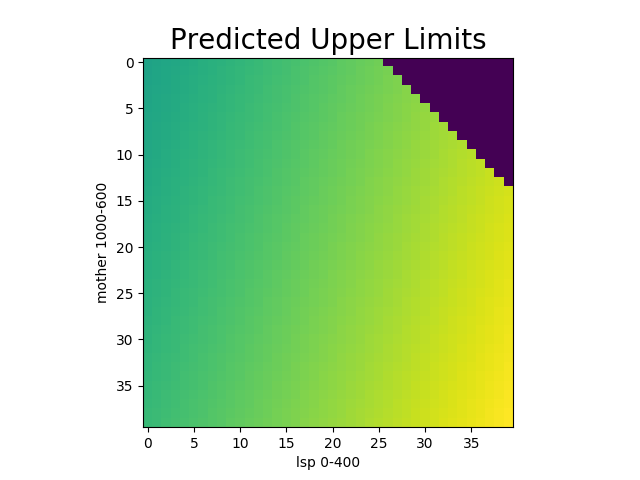
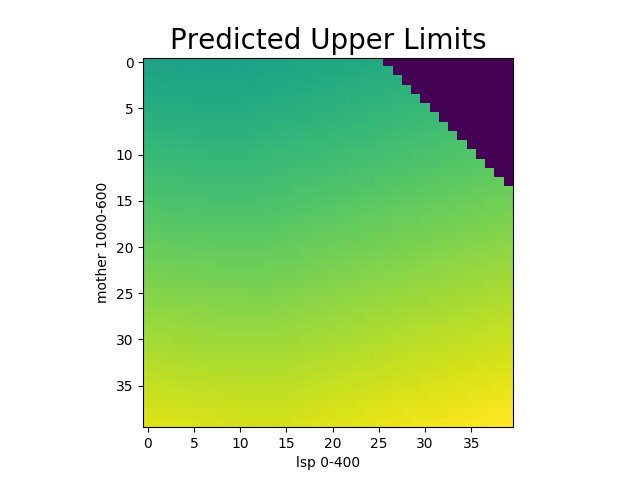
everything

Changed region(s): [[0.2188, 0.3438, 0.7188, 0.9062], [0.375, 0.125, 0.8125, 0.7812]]

diff --git a/traintorch.py b/traintorch.py
@@ -6,99 +6,95 @@
 
 import torch
 import numpy as np
+from misc import *
+from glovar import *
+
+import torch.nn as nn
+import torch.nn.functional as F
+
+import visdom
+import matplotlib.pyplot as plt
 
 ###################### DEFINE CLASS ##############################
 
-class TwoLayerNet(torch.nn.Module):
-    def __init__(self, D_in, H, D_out):
-        """
-        In the constructor we instantiate two nn.Linear modules and assign them as
-        member variables.
-        """
-        super(TwoLayerNet, self).__init__()
-        self.linear1 = torch.nn.Linear(D_in, H)
-        self.linear2 = torch.nn.Linear(H, D_out)
+class Net(nn.Module):
+    def __init__(self):
+        super(Net, self).__init__()
+        #super().__init__()
+        self.hidden1 = nn.Sequential(nn.Linear(DIM_IN, DIM_HIDDEN_1), nn.ReLU())
+        self.hidden2 = nn.Sequential(nn.Linear(DIM_HIDDEN_1, DIM_HIDDEN_2), nn.ReLU())
+        self.hidden3 = nn.Sequential(nn.Linear(DIM_HIDDEN_2, DIM_HIDDEN_3), nn.ReLU())
+        self.out = nn.Linear(DIM_HIDDEN_3, DIM_OUT)
 
     def forward(self, x):
-        """
-        In the forward function we accept a Tensor of input data and we must return
-        a Tensor of output data. We can use Modules defined in the constructor as
-        well as arbitrary operators on Tensors.
-        """
-        h_relu = self.linear1(x).clamp(min=0)
-        y_pred = self.linear2(h_relu)
-        return y_pred
-
+        x = self.hidden1(x)
+        x = self.hidden2(x)
+        x = self.hidden3(x)
+        x = self.out(x)
+        return x
 
 ######################## LOAD DATA ################################
 
-print ( "Now loading data" )
-import pickle
-f=open("data/data.pcl","rb")
-tr_data=pickle.load ( f )
-tr_labels=pickle.load ( f )
-val_data=pickle.load ( f )
-val_labels=pickle.load ( f )
-f.close()
+tr_data,tr_labels,val_data,val_labels = loadData()
 
-def hash ( A ):          #define a hash dictionary
-    return int(A[0]*10000.+A[1])
-
-X={}
+X={} #create dictionary
 for d,l in zip (tr_data,tr_labels):
-    X[hash(d)]=l
+    X[Hash(d)]=l
 
 ###################### INITIALIZE NN ############################
 
-# N is batch size; D_in is input dimension;
-# H is hidden dimension; D_out is output dimension.
+model = Net()
+print("\n",model)
 
-N, D_in, H, D_out, N_val = len(tr_data), 2, 8, 1, len(val_data)
+loss_fn = nn.L1Loss(size_average=True, reduce=True)
 
-model = TwoLayerNet(D_in, H, D_out)
-
-#model = torch.nn.Sequential(
-#    torch.nn.Linear(D_in, H),
-#    torch.nn.ReLU(),
-#    torch.nn.Linear(H, D_out),
-#)
-#loss_fn = torch.nn.MSELoss(size_average=False)
-
-learning_rate = 1e-4
-criterion = torch.nn.MSELoss(size_average=False)
-optimizer = torch.optim.SGD(model.parameters(), lr=learning_rate)
-#optimizer = torch.optim.Adam(model.parameters(), lr=learning_rate)
+optimizer = torch.optim.Adam(model.parameters(), lr=LEARN_RATE)
 
 ###################### MODIFY DATA FOR NN #########################
 
-tr_data_torch      = torch.zeros(N, D_in)
-tr_labels_torch    = torch.zeros(N, D_out)
-val_data_torch     = torch.zeros(N_val, D_in)
-val_labels_torch   = torch.zeros(N_val,  D_out)
+tr_data_torch    = torch.zeros(BATCH_SIZE, DIM_IN)
+tr_labels_torch  = torch.zeros(BATCH_SIZE, DIM_OUT)
+val_data_torch   = torch.zeros(BATCH_SIZE_VAL, DIM_IN)
+val_labels_torch = torch.zeros(BATCH_SIZE_VAL, DIM_OUT)
 
-for i in range(N):
-	tr_data_torch[i]   = torch.from_numpy(tr_data[i])
-	tr_labels_torch[i] = tr_labels[i]
+for i in range(BATCH_SIZE):
+  tr_data_torch[i]   = torch.from_numpy(tr_data[i])
+  tr_labels_torch[i] = tr_labels[i]
 
-for i in range(N_val):
-	val_data_torch[i]   = torch.from_numpy(val_data[i])
-	val_labels_torch[i] = val_labels[i]
+for i in range(BATCH_SIZE_VAL):
+  val_data_torch[i]   = torch.from_numpy(val_data[i])
+  val_labels_torch[i] = val_labels[i]
 
 ###################### FIT NN #####################################
 
 print ( "Now fitting ... " )
-for t in range(500):
-    labels_pred = model(tr_data_torch)
 
-    loss = criterion(labels_pred, tr_labels_torch)
-    #loss = loss_fn(labels_pred, tr_labels_torch)
-    print(t, loss.item())
+loss_plot_x = [] #save lists for loss plot
+loss_plot_y = []
+
+for t in range(EPOCH_NUM):
+
+    labels_pred = model(tr_data_torch)
+    loss = loss_fn(labels_pred, tr_labels_torch)
+
+    loss_plot_x.append(t) #fill loss lists with data 
+    loss_plot_y.append(loss)
 
     optimizer.zero_grad()
     loss.backward()
     optimizer.step()
-
 print ( "Done fitting" )
+
+print("\nloss:", loss.item())
+
+################# VISUALIZE LOSS ##################################
+
+plt.figure(0)  
+plt.title('Loss Function', fontsize=20)
+plt.xlabel('Epochs')
+plt.ylabel('Value of Loss Function')
+plt.plot(loss_plot_x, loss_plot_y)
+plt.savefig("analysis/plots/loss.png")
 
 ################# MAKE EXAMPLE PREDICTIONS ########################
 mass = torch.tensor( [ [ 600, 200 ], [ 700, 200 ], [ 800, 200 ], [ 900, 200 ], [ 1000, 200 ] ] )
@@ -106,12 +102,9 @@ preds=model( mass.type(torch.FloatTensor) )
 print ( "Now predict" ) 
 
 for m,p in zip ( mass,preds ):
-    print ( "%s -> %s, %s" % ( m,p, X[hash(m)]) )
+    print ( "%s -> %s, %s" % ( m,p, X[Hash(m)]) )
 
 ################ SAVE MODEL ##################################
-#The second saves and loads the entire model:
-#torch.save(the_model, PATH)
-#Then later:
-#the_model = torch.load(PATH)
 
-torch.save(model,"data/torchmodel.h5")
+torch.save(model.state_dict(),"data/torchmodel.h5")
+

diff --git a/drawtorch.py b/drawtorch.py
@@ -5,21 +5,35 @@
 import matplotlib.pyplot as plt
 import numpy as np
 import torch
+from misc import *
+from glovar import *
+
+import torch.nn as nn
+import torch.nn.functional as F
+
+###################### DEFINE CLASS ##############################
+
+class Net(nn.Module):
+    def __init__(self):
+        super(Net, self).__init__()
+        #super().__init__()
+        self.hidden1 = nn.Sequential(nn.Linear(DIM_IN, DIM_HIDDEN_1), nn.ReLU())
+        self.hidden2 = nn.Sequential(nn.Linear(DIM_HIDDEN_1, DIM_HIDDEN_2), nn.ReLU())
+        self.hidden3 = nn.Sequential(nn.Linear(DIM_HIDDEN_2, DIM_HIDDEN_3), nn.ReLU())
+        self.out = nn.Linear(DIM_HIDDEN_3, DIM_OUT)
+
+    def forward(self, x):
+        x = self.hidden1(x)
+        x = self.hidden2(x)
+        x = self.hidden3(x)
+        x = self.out(x)
+        return x
 
 ########## LOAD DATABASE ##############################
 
-print ( "Now loading data" )
-import pickle
-f=open("data/data.pcl","rb")
-tr_data=pickle.load ( f )
-tr_labels=pickle.load ( f )
-val_data=pickle.load ( f )
-val_labels=pickle.load ( f )
-f.close()
+tr_data,tr_labels,val_data,val_labels = loadData()
 
-def Hash ( A ):           #define hash dictionary
-    return int(A[0]*10000.+A[1])
-X={}
+X={} #create dictionary
 for d,l in zip (tr_data,tr_labels):
     X[Hash(d)]=l
 
@@ -38,7 +52,8 @@ pX, pY, pYm = [], [], []
 
 ##### Load the model and make predictions ##############
 
-model = torch.load("data/torchmodel.h5")
+model = Net()
+model.load_state_dict(torch.load("data/torchmodel.h5"))
 preds=model ( mass.type(torch.FloatTensor) )
 
 #### Create a tupel list with mass and predictions #####

diff --git a/obtain_numberstorch.py b/obtain_numberstorch.py
@@ -1,0 +1,34 @@
+
+from glovar import *
+import numpy as np
+import random
+from misc import *
+from smodels.tools.physicsUnits import GeV, fb
+
+expres = getExpRes(EXP)
+
+tr_data, tr_labels   = [], []
+val_data, val_labels = [], []
+
+for mother in np.arange(600., 1100., 5.):
+    for lsp in np.arange (0., mother, 10.):
+
+        masses = [[ mother*GeV, lsp*GeV], [ mother*GeV, lsp*GeV]]
+        ul     = expres.getUpperLimitFor(txname=TX, mass=masses)
+        if type(ul) == type(None):
+            continue
+        tr_data.append(np.array([mother, lsp]))
+        tr_labels.append ( ul.asNumber(fb) )
+
+for i in range(100):
+
+    mother = random.uniform(600. , 1100.)
+    lsp    = random.uniform(0., mother-10.)
+    masses = [[ mother*GeV, lsp*GeV], [ mother*GeV, lsp*GeV]]
+    ul     = expres.getUpperLimitFor(txname=TX, mass=masses)
+    if type(ul) == type(None):
+        continue
+    val_data.append(np.array( [ mother, lsp ]))
+    val_labels.append(ul.asNumber(fb))
+
+saveData([tr_data,tr_labels,val_data,val_labels])

diff --git a/misc.py b/misc.py
@@ -1,0 +1,32 @@
+from glovar import *
+import pickle
+from smodels.experiment.databaseObj import Database
+
+def getExpRes(exp):
+    print("load result ..")
+    database=Database(PATH_DATABASE)
+    print("  done")
+    return database.getExpResults(analysisIDs = [exp])[0]
+
+def saveData(data):
+    print("\nsaving data ..")
+    file = open(PATH_DATA + "data.pcl","wb")
+    pickle.dump(len(data), file)
+    for item in data:
+        pickle.dump(item, file)
+    file.close
+    print("  done")
+    
+def loadData():
+    print("\nloading data ..")
+    file = open(PATH_DATA + "data.pcl","rb")
+    lgth = pickle.load(file)
+    data = []
+    for i in range(lgth):
+        data.append(pickle.load(file))
+    file.close()
+    print("  done")
+    return data
+
+def Hash ( A ):
+    return int(A[0]*10000.+A[1])

diff --git a/glovar.py b/glovar.py
@@ -1,0 +1,29 @@
+# SET PATHS
+
+PATH_DATABASE = "database/"
+PATH_DATA     = "data/"
+PATH_PLOTS    = "analysis/plots/"
+PATH_LOGS     = "analysis/logs/"
+
+############
+
+# PICK RESULT
+
+EXP = "CMS-PAS-SUS-12-026"
+TX  = "T1tttt"
+
+############
+
+# CONFIGURE PYTORCH
+
+BATCH_SIZE     = 5050
+DIM_IN         = 2
+DIM_HIDDEN_1   = 4
+DIM_HIDDEN_2   = 16
+DIM_HIDDEN_3   = 4
+DIM_OUT        = 1
+BATCH_SIZE_VAL = 59
+LEARN_RATE     = 1e-3
+EPOCH_NUM      = 200
+
+############

diff --git a/test.py b/test.py
@@ -1,5 +1,8 @@
 import visdom
-import numpy as np
 vis = visdom.Visdom()
-vis.text('Hello, world!')
-vis.image(np.ones((3, 10, 10)))
+
+trace = dict(x=[1, 2, 3], y=[4, 5, 6], mode="markers+lines", type='custom', marker={'color': 'red', 'symbol': 104, 'size': "10"}, text=["one", "two", "three"], name='1st Trace')
+
+layout = dict(title="Loss Function", xaxis={'title': 'Epochs'}, yaxis={'title': 'Value'})
+
+vis._send({'data': [trace], 'layout': layout, 'win': 'mywin'})
